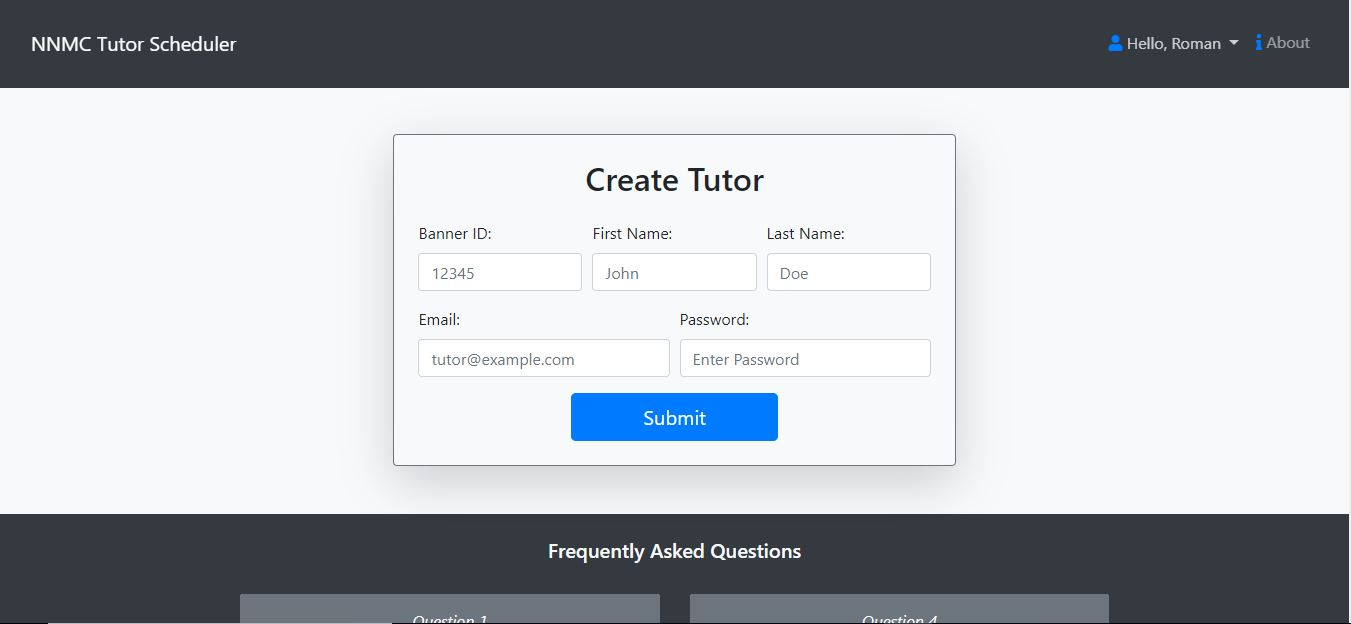
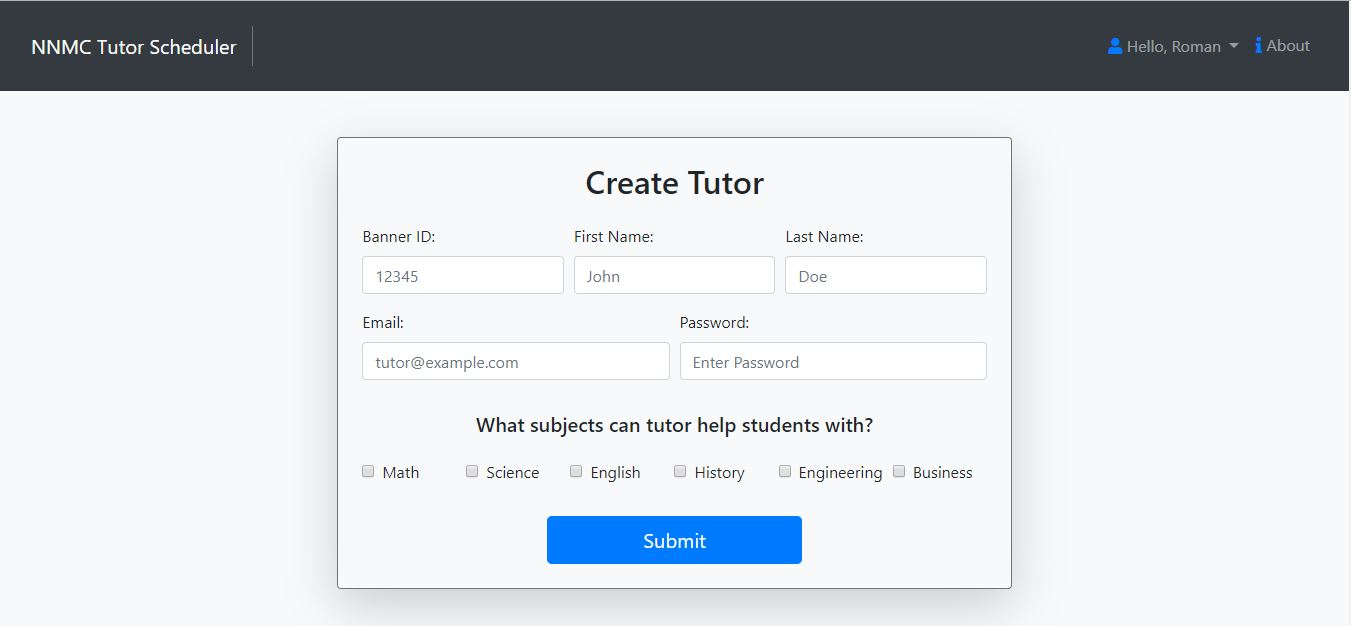
added subjects to tutor table

diff --git a/public/js/main.js b/public/js/main.js
@@ -1,0 +1,77 @@
+$(document).ready(function () {
+    // Math tutors AJAX request
+    $('#math-btn').on('click', function () {
+        $.ajax({
+            type: 'GET',
+            url: '/display-tutors',
+            data: {
+                subject: 'math'
+            },
+            success: function (tutors) {
+                $("#math-tutors").empty().append('<h5 class="mb-3">Choose a tutor</h5>');
+                $.each(tutors, function (index, tutor) {
+                    $("#math-tutors").append('<a href="/schedule-session/' + tutor.banner_id +
+                        '" class="text-secondary">' + tutor.first_name + ' ' + tutor.last_name + '</a>');
+                });
+            }
+        });
+    });
+
+
+    // Science tutors AJAX request
+    $('#science-btn').on('click', function () {
+        $.ajax({
+            type: 'GET',
+            url: '/display-tutors',
+            data: {
+                subject: 'science'
+            },
+            success: function (tutors) {
+                $("#science-tutors").empty().append('<h5 class="mb-3">Choose a tutor</h5>');
+                $.each(tutors, function (index, tutor) {
+                    $("#science-tutors").append('<a href="/schedule-session/' + tutor.banner_id +
+                        '" class="text-secondary">' + tutor.first_name + ' ' + tutor.last_name + '</a>');
+                });
+            }
+        });
+    });
+
+
+    // Engineering tutors AJAX request
+    $('#engineering-btn').on('click', function () {
+        $.ajax({
+            type: 'GET',
+            url: '/display-tutors',
+            data: {
+                subject: 'engineering'
+            },
+            success: function (tutors) {
+                $("#engineering-tutors").empty().append('<h5 class="mb-3">Choose a tutor</h5>');
+                $.each(tutors, function (index, tutor) {
+                    $("#engineering-tutors").append('<a href="/schedule-session/' + tutor.banner_id +
+                        '" class="text-secondary">' + tutor.first_name + ' ' + tutor.last_name + '</a>');
+                });
+            }
+        });
+    });
+
+
+    // Business tutors AJAX request
+    $('#business-btn').on('click', function () {
+        $.ajax({
+            type: 'GET',
+            url: '/display-tutors',
+            data: {
+                subject: 'business'
+            },
+            success: function (tutors) {
+                $("#business-tutors").empty().append('<h5 class="mb-3">Choose a tutor</h5>');
+
+                $.each(tutors, function (index, tutor) {
+                    $("#business-tutors").append('<a href="/schedule-session/' + tutor.banner_id +
+                        '" class="text-secondary">' + tutor.first_name + ' ' + tutor.last_name + '</a>');
+                });
+            }
+        });
+    });
+});

diff --git a/app.js b/app.js
@@ -88,13 +88,27 @@ app.use(function (req, res, next) {
 // Home Route
 app.get('/', ensureStudent, (req, res) => {
 
-    var sql = 'SELECT * FROM `tutors` ORDER BY `first_name` ASC';
+    var sql = 'SELECT sum(math) AS math_count, sum(science) AS science_count,' +
+        'sum(engineering) AS engineering_count, sum(business) AS business_count FROM `tutors`';
 
     connection.query(sql, (error, results, fields) => {
         res.render('index', {
-            tutors: results,
-            name: 'Roman'
+            mathCount: results[0].math_count,
+            scienceCount: results[0].science_count,
+            engineeringCount: results[0].engineering_count,
+            businessCount: results[0].business_count,
         });
+    })
+});
+
+// Display tutors route
+app.get('/display-tutors', ensureStudent, (req, res) => {
+    let subject = req.query.subject;
+
+    var sql = `SELECT * FROM tutors WHERE ${subject} = 1 ORDER BY first_name ASC`;
+
+    connection.query(sql, (error, results, fields) => {
+        res.send(results);
     })
 });
 
@@ -234,9 +248,4 @@ function makeSession(req, results) {
     };
 
     return session;
-}
-
-// Function to log query results
-function logResults(results) {
-    console.log(results);
 }

diff --git a/routes/users.js b/routes/users.js
@@ -116,15 +116,28 @@ router.get('/admin/create-tutor', ensureAdmin, (req, res) => {
 
 // Create tutor POST route
 router.post('/admin/create-tutor', (req, res) => {
+    let math = req.body.math ? 1 : 0;
+    let science = req.body.science ? 1 : 0;
+    let english = req.body.english ? 1 : 0;
+    let history = req.body.history ? 1 : 0;
+    let engineering = req.body.engineering ? 1 : 0;
+    let business = req.body.business ? 1 : 0;
+
     let salt = bcrypt.genSaltSync(10);
     let hash = bcrypt.hashSync(req.body.password, salt);
 
     let tutor = {
-        banner_id: req.body.bannerId,
+        banner_id: req.body.bannerId || null,
         first_name: req.body.firstName,
         last_name: req.body.lastName,
         email: req.body.email,
-        password: hash
+        password: hash,
+        math: math,
+        science: science,
+        english: english,
+        history: history,
+        engineering: engineering,
+        business: business
     }
 
     let sql = 'INSERT INTO `tutors` SET ?';

diff --git a/public/js/schedule-session.js b/public/js/schedule-session.js
@@ -4,7 +4,7 @@ $(document).ready(function () {
 
         let tutorId = $('#hidden-tutor-id').val();
         let day = this.value;
-        console.log("ID: " + tutorId);
+
         $.ajax({
             type: 'GET',
             url: '/update-time',
